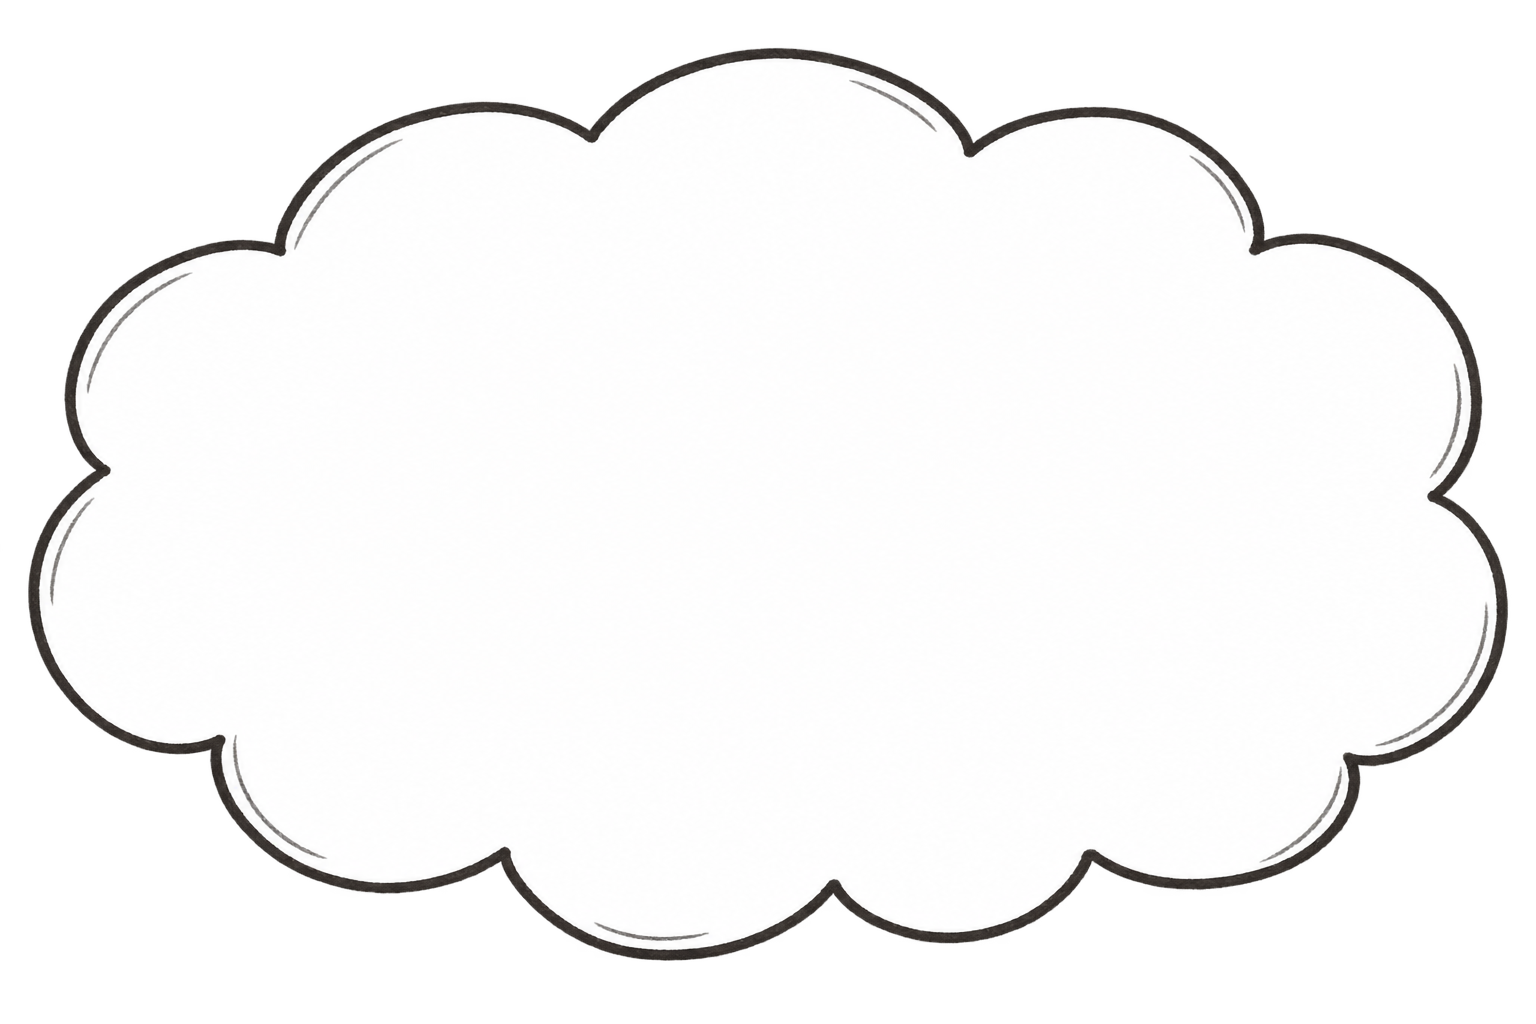
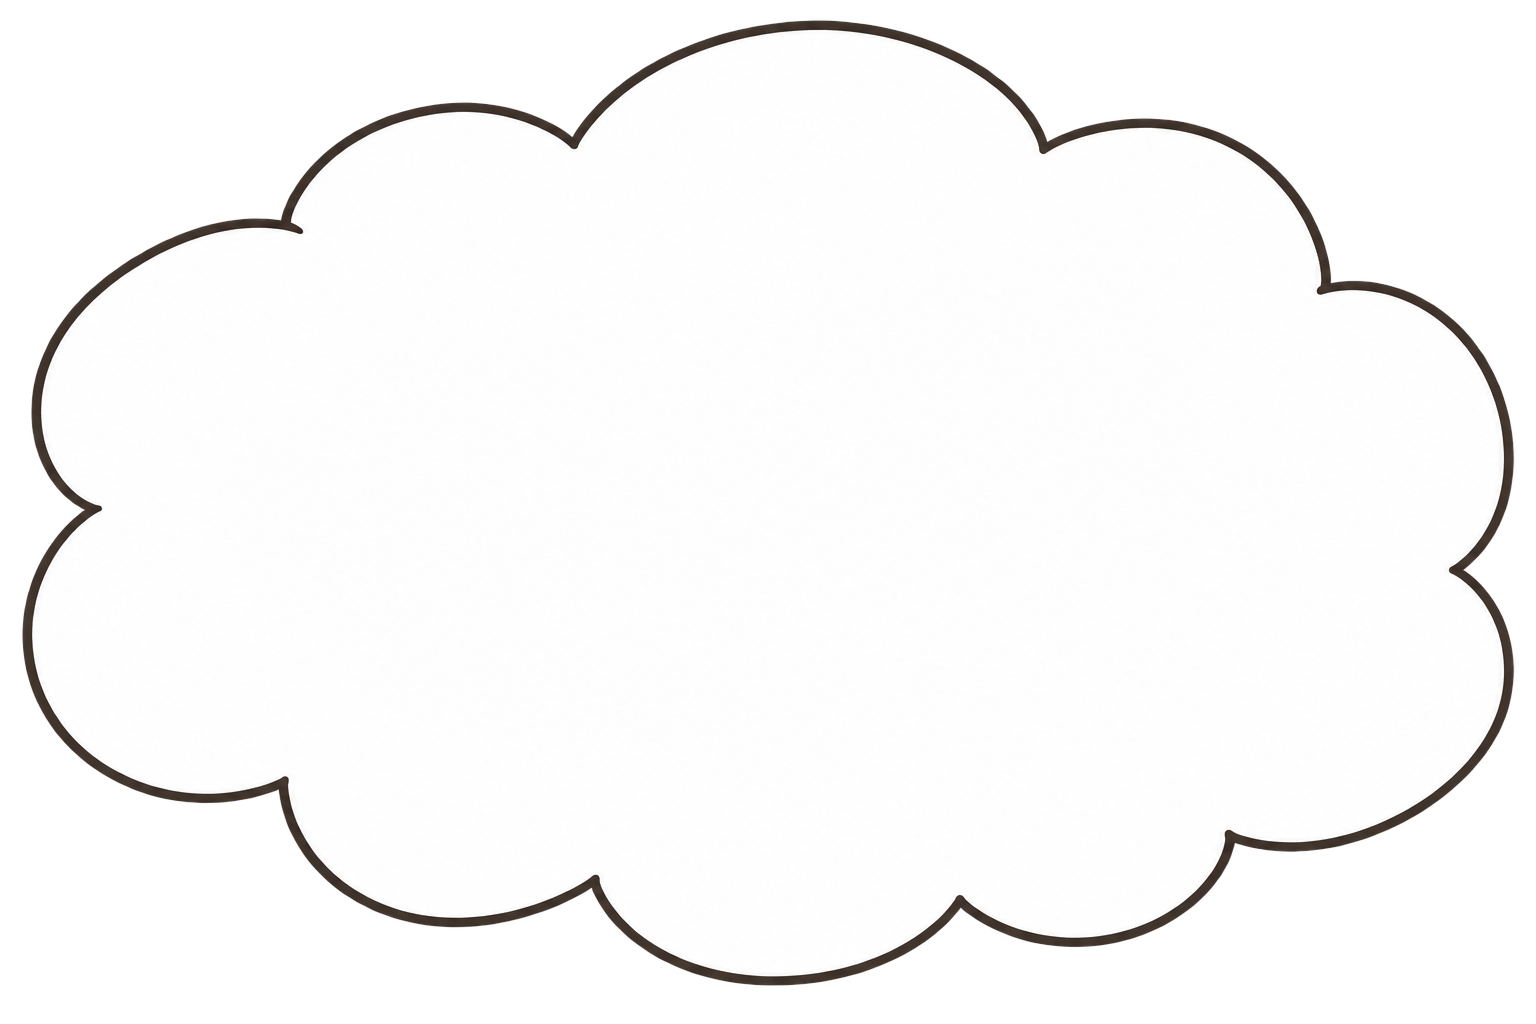
Polish loading clouds and fill along bulb axis

diff --git a/docs/system-design.html b/docs/system-design.html
@@ -53,8 +53,9 @@
 </head>
 <body>
 <h1>SigrikaGo 系统设计</h1>
+<p>思考立绘加载样板第三轮将灯泡填充改为沿自身轴线从玻璃内腔底部向头部上升，填充起止位置由透明内腔遮罩自动提取，旋转后仍保持这一方向。头部漫画发光标记增宽约 52% 并贴近灯泡；大云朵重绘为宽大错落的柔软轮廓，移除重复细碎鼓包和双重描边。大云朵随机左右偏移 8–14px、上下最大 9px，小云朵左右 2–4px、上下最大 2.5px，周期缩短至 4.2–6 秒；完成后暂停当前位置，保持 2 秒静止。桌面、390×844 与 360×640 手机布局验证完整浮动包络内小云朵均不覆盖角色实像。</p>
 <p>思考立绘加载样板第二轮调整了构图：灯泡宽度缩为原来的 2/3，并增加顺时针 30 度；漫画发光标记仅保留灯泡头部上方一组，相对初版转 180 度。大云朵增宽 1/3 并略向右移，三枚小云朵沿角色左侧空白绕行，不覆盖角色实像；等待期间按独立随机路径缓慢浮动，满载暂停在当前偏移，减少动态效果时停止浮动。手机端独立预览入口为 <code>docs/design-samples/loading-page-mobile.html</code>，桌面中使用真实 390×844 嵌入视口，手机上铺满可用屏幕；桌面和手机截图随样板更新，运行时边界不变。</p>
-<p>加载页的新思考立绘样板入口为 <code>docs/design-samples/loading-page.html</code>：角色居中使用已校验的透明眨眼 WebP，左上方大云朵预留死活题图片位置，三枚分开的小云朵连接角色；右侧手绘灯泡以真实透明内腔遮罩承载黄色渐变，从左下向右上填充，满载显示块状发光标记并切换恍然大悟静态表情。完成画面及 Tip 停止变化，2 秒后发出 <code>loading:complete</code> 事件，样板停留在完成状态直至重播。仅保留现有 <code>preloadTips</code> 的文字格式与 10 秒轮换，放于桌下；默认文案取自 <code>DEFAULT_SITE_SETTINGS</code>，正式接入时应读取后台实时配置。样板包含进度与本地题图预览控制，适配桌面、手机竖屏及紧凑横屏，尊重减少动态效果设置；现有启动、对局、教学和黑化状态的运行时加载逻辑暂不替换。素材与运行说明见同目录 <code>loading-page/README.md</code>。</p>
+<p>加载页的新思考立绘样板入口为 <code>docs/design-samples/loading-page.html</code>：角色居中使用已校验的透明眨眼 WebP，左上方大云朵预留死活题图片位置，三枚分开的小云朵连接角色；右侧手绘灯泡以真实透明内腔遮罩承载黄色渐变，沿灯泡自身方向从底部向头部填充，满载显示块状发光标记并切换恍然大悟静态表情。完成画面及 Tip 停止变化，2 秒后发出 <code>loading:complete</code> 事件，样板停留在完成状态直至重播。仅保留现有 <code>preloadTips</code> 的文字格式与 10 秒轮换，放于桌下；默认文案取自 <code>DEFAULT_SITE_SETTINGS</code>，正式接入时应读取后台实时配置。样板包含进度与本地题图预览控制，适配桌面、手机竖屏及紧凑横屏，尊重减少动态效果设置；现有启动、对局、教学和黑化状态的运行时加载逻辑暂不替换。素材与运行说明见同目录 <code>loading-page/README.md</code>。</p>
 <p>教学与首页引导的固定头像框、独立正文纸片沿用原对话框的角色主题色：浅色渐变、角色色描边与轻外光，姓名用主题色混合深墨色，正文保持深色。首页优先读取角色 <code>palette</code>，兼容 <code>color</code>，并把配色传入独立头像层；头像裁切、框尺寸、动态打字和正文增高保持原布局。</p>
 <p>本地开发的 API 代理在后端启动或重启导致连接拒绝、连接重置时，返回带 <code>dev_backend_unavailable</code> 的 JSON 503，避免空响应被误报为 JSON 格式错误。公告列表、详情与未读摘要的 GET 请求仅对该明确错误码自动重试三次，依次等待 250、500、1000 毫秒；持续失败显示服务暂不可用并保留手动重试，已读标记等 POST 不自动重放，其他服务错误或畸形 JSON 仍直接报告。开发环境遇到公告响应格式异常时仅记录请求路径、状态码和 Content-Type，供追踪具体失败接口，不记录令牌或响应正文。</p>
 <p>吃子挑战赛的结算音频以服务端成绩为准：终局恰好 100 手、结束原因为挑战完成且 <code>practice.result</code> 已产生时，为参赛玩家播放角色胜利语音和胜利系统音；提子数、排名和普通胜负字段不影响庆祝。未完成、无效对局、结算尚未落库或观战均不播放，音量设置及结算窗口内的单次播放保护沿用原机制。</p>

diff --git a/docs/design-samples/loading-page/loading-page.js b/docs/design-samples/loading-page/loading-page.js
@@ -19,13 +19,15 @@
   const cloudElements = [...document.querySelectorAll('.thought-cloud, .thought-link')];
 
   function floatCloud(element,index) {
-    const range = index===0 ? 5 : 2;
-    const point = () => `${(Math.random()-.5)*range*2}px ${(Math.random()-.5)*range*1.4}px`;
+    const large = index===0;
+    const point = (direction) => `${direction*(large ? 8+Math.random()*6 : 2+Math.random()*2)}px ${(Math.random()-.5)*(large ? 18 : 5)}px`;
+    const previous = cloudAnimations.get(element);
     const motion = element.animate([
-      {translate:'0px 0px'}, {translate:point()},
-      {translate:point()}, {translate:'0px 0px'}
-    ],{duration:6000+Math.random()*3000,easing:'ease-in-out',fill:'both'});
+      {translate:'0px 0px'}, {translate:point(1)},
+      {translate:point(-1)}, {translate:point(1)}, {translate:'0px 0px'}
+    ],{duration:4200+Math.random()*1800,easing:'ease-in-out',fill:'both'});
     cloudAnimations.set(element,motion);
+    if (previous) previous.cancel();
     motion.onfinish = () => {
       if (progress<100) floatCloud(element,index);
     };
@@ -52,10 +54,10 @@
   function setProgress(value) {
     const number = Number(value);
     const next = Number.isFinite(number) ? Math.max(0,Math.min(100,number)) : 0;
-    const threshold = 100 - 2*next;
-    fill.setAttribute('points',threshold>=0
-      ? `0,${threshold} ${100-threshold},100 0,100`
-      : `0,0 ${-threshold},0 100,${100+threshold} 100,100 0,100`);
+    // Rise from the glass neck to its crown in the rotated bulb's own coordinates.
+    const chamber = window.SigrikaBulbChamber;
+    const threshold = chamber.bottom-(chamber.bottom-chamber.top)*next/100;
+    fill.setAttribute('points',`0,${threshold} 100,${threshold} 100,100 0,100`);
     bulb.setAttribute('aria-valuenow',String(Math.round(next)));
     output.value = `${Math.round(next)}%`;
     slider.value = String(Math.round(next));
@@ -86,7 +88,7 @@
     const started=performance.now();
     function step(now) {
       const elapsed=(now-started)/12000;
-      // Linear data progress keeps the diagonal fill direction obvious.
+      // Linear data progress makes the bulb-axis rise easy to inspect.
       setProgress(Math.min(100,elapsed*100));
       if (progress<100) animation=window.requestAnimationFrame(step);
     }

diff --git a/docs/design-samples/loading-page/loading-page.css b/docs/design-samples/loading-page/loading-page.css
@@ -19,8 +19,8 @@ button,input,summary{font:inherit}
 .bulb-outline{position:absolute;inset:0;width:100%;height:100%;object-fit:contain;pointer-events:none;z-index:2}
 .bulb-fill-mask{position:absolute;inset:0;mask:url('./assets/bulb-interior.png') center/100% 100% no-repeat;-webkit-mask:url('./assets/bulb-interior.png') center/100% 100% no-repeat}
 .bulb-fill{position:absolute;inset:0;width:100%;height:100%}
-.bulb-rays{position:absolute;width:25%;height:auto;opacity:0;visibility:hidden;pointer-events:none;z-index:3}
-.bulb-rays-top{left:36%;top:-23%;transform:rotate(275deg)}
+.bulb-rays{position:absolute;width:38%;height:auto;opacity:0;visibility:hidden;pointer-events:none;z-index:3}
+.bulb-rays-top{left:30%;top:-17%;transform:rotate(275deg)}
 .is-complete .bulb-rays{opacity:1;visibility:visible}
 .loading-tip{margin:18px 0 0;width:min(760px,95%);font-size:clamp(16px,1.35vw,20px);line-height:1.75;text-align:center;overflow-wrap:anywhere;min-height:2em;color:#5a4740}
 .preview-tools{position:fixed;z-index:20;bottom:16px;left:18px;max-width:calc(100vw - 36px);color:#6a554d;font-family:"Microsoft YaHei",sans-serif;font-size:13px}

diff --git a/docs/design-samples/loading-page.html b/docs/design-samples/loading-page.html
@@ -46,6 +46,7 @@
     </div>
   </details>
   <script src="./loading-page/tips.js"></script>
+  <script src="./loading-page/bulb-geometry.js"></script>
   <script src="./loading-page/loading-page.js"></script>
 </body>
 </html>

diff --git a/docs/design-samples/loading-page/bulb-geometry.js b/docs/design-samples/loading-page/bulb-geometry.js
@@ -1,0 +1,1 @@
+window.SigrikaBulbChamber = {"top": 8.425414364640885, "bottom": 75.0};

diff --git a/docs/design-samples/loading-page/prepare-assets.py b/docs/design-samples/loading-page/prepare-assets.py
@@ -18,6 +18,10 @@ assert not chamber[-1,bulb.width//2]
 mask = np.full((bulb.height,bulb.width,4),255,dtype='uint8')
 mask[:,:,3] = np.where(chamber,255,0).astype('uint8')
 Image.fromarray(mask).save(here/'assets/bulb-interior.png')
+rows = np.nonzero(chamber)[0]
+geometry = {'top': int(rows.min())/bulb.height*100,
+            'bottom': (int(rows.max())+1)/bulb.height*100}
+(here/'bulb-geometry.js').write_text('window.SigrikaBulbChamber = '+json.dumps(geometry)+';\n',encoding='utf-8')
 source = (project/'src/shared/siteSettings.js').read_text(encoding='utf-8')
 match = re.search(r'preloadTips:\s*("(?:[^"\\]|\\.)*")',source)
 tips = json.loads(match.group(1)).splitlines()

diff --git a/docs/design-samples/loading-page/README.md b/docs/design-samples/loading-page/README.md
@@ -4,11 +4,11 @@ Open `docs/design-samples/loading-page.html` through a static server rooted at t
 
 The dedicated phone preview is `docs/design-samples/loading-page-mobile.html`, locally `http://127.0.0.1:5179/docs/design-samples/loading-page-mobile.html`. On desktop it embeds the same sample at a real 390×844 viewport; on a phone it fills the available screen. Updated desktop and phone captures are `preview-desktop.png` and `preview-mobile.png` in this directory.
 
-The refined cloud is one third wider and slightly farther right; its connectors curve through empty space to the character's left, with no opaque sprite overlap. The bulb is two thirds of its previous width and adds 30 degrees clockwise rotation: 41 degrees on desktop, 40 on phones. Only one comic glow cluster remains above its head, flipped 180 degrees from its previous orientation. Large and small clouds gently drift along independently randomized 6–9 second paths while waiting; completion pauses their current positions during the 2-second still hold. Reduced motion disables cloud movement as well as blinking.
+The refined cloud is one third wider and slightly farther right, with broad irregular soft lobes and a clean single contour; its connectors curve through empty space to the character's left, with no opaque sprite overlap even at the motion limits. The bulb is two thirds of its previous width and adds 30 degrees clockwise rotation: 41 degrees on desktop, 40 on phones. One comic glow cluster sits close above its head, flipped 180 degrees from its initial orientation and enlarged from 25% to 38% of bulb width. Clouds drift along independently randomized 4.2–6 second paths: main cloud x ±8–14px / y ±9px, connectors x ±2–4px / y ±2.5px. Completion pauses their current positions during the 2-second still hold. Reduced motion disables cloud movement as well as blinking.
 
 The standalone sample follows the requested new loading composition: blinking character centered above the original table, a large thought cloud above and to the left, three separate smaller clouds, a hand-drawn lightbulb beside the head and only the existing tip text below the table. The cloud is intentionally empty until a life-and-death problem image is provided. Preview controls allow a local image to be shown in the slot; that file is never uploaded.
 
-The bulb glass chamber starts transparent. A yellow gradient is clipped by an alpha mask derived from the generated ink contour; a diagonal half-plane reveals the fill from bottom left to top right. At 100%, rays appear and the character switches to the approved still expression. The scene and tip remain still. After exactly 2000 ms, the composition dispatches a bubbling `loading:complete` event; the sample remains on its finished state until replay. Production navigation can consume that event when the design is integrated.
+The bulb glass chamber starts transparent. A yellow gradient is clipped by an alpha mask derived from the generated ink contour. Its horizontal boundary rises in bulb-local coordinates from the glass bottom to the crown, following the bulb's rotation. `prepare-assets.py` writes the mask's normalized vertical bounds to `bulb-geometry.js`; progress maps only to the chamber, excluding the empty screw base. At 100%, rays appear and the character switches to the approved still expression. The scene and tip remain still. After exactly 2000 ms, the composition dispatches a bubbling `loading:complete` event; the sample remains on its finished state until replay. Production navigation can consume that event when the design is integrated.
 
 ## Preview controls
 
@@ -24,7 +24,7 @@ The character sprite is the user's previously approved loading-blink WebP and co
 
 Final prompt set:
 
-1. Cloud: one large standalone hand-drawn thought-cloud bubble, irregular scalloped oval with about ten puffy lobes; slightly wobbly warm charcoal ink and occasional pencil echo; white interior with a large blank center for a future Go puzzle; landscape 3:2; transparent background; no text, stones, characters, tail or extra clouds.
+1. Cloud (replacement): one landscape 3:2 thought bubble, generous blank pure-white interior for a Go puzzle; broad fluffy rounded lobes of naturally varied sizes, soft flowing asymmetry instead of repetitive beads; thin warm-charcoal hand-drawn contour, restrained line variation, no double outlines, grain, internal lines or shadows; transparent exterior; no text, tail, extra clouds, icons, character, stars or puzzle. Generated replacement is saved at `assets/cloud.png` (1536×1024).
 2. Bulb: one upright classic lightbulb, circular pear-shaped chamber and small screw base, warm charcoal hand-drawn contour; glass and base interior genuinely transparent; no filament, rays, lettering, shadows or colored fill; portrait 3:4 with margins. The generated asset is 1086×1448; `bulb-interior.png` is a derived RGBA alpha mask for the chamber only.
 3. Rays: edit the supplied reference to create three separated irregular chunky trapezoid yellow emission marks; soft buttery yellow fill, thin wobbly charcoal pencil contour; remove the white background; retain transparent gaps; no stars, lightning bolt, bulb or text. The final composition uses one cluster above the completed bulb, rotated 180 degrees relative to the initial sample.
 
@@ -32,4 +32,4 @@ This is a visual prototype, following the repository's existing design-sample co
 
 ## Validation
 
-Local browser QA covers fixed stages, diagonal fill, transparent chamber, completed still expression, rays, the 2-second completion boundary, replay, puzzle slot, reduced motion, desktop, mobile portrait and compact landscape. Screenshots and the local report are under `.tmp/loading-page-qa/`.
+Local browser QA covers 0/10/50/90/100% bulb-axis fill, transparent chamber, completed still expression, rays, the 2-second completion boundary, replay, puzzle slot, reduced motion, desktop, mobile portrait and compact landscape. Connector alpha overlap is checked throughout the full drift envelope. Screenshots and local reports are under `.tmp/loading-page-qa/`.

diff --git a/docs/system-design.md b/docs/system-design.md
@@ -1,8 +1,10 @@
 # SigrikaGo 系统设计
 
+思考立绘加载样板第三轮将灯泡填充改为沿自身轴线从玻璃内腔底部向头部上升，填充起止位置由透明内腔遮罩自动提取，旋转后仍保持这一方向。头部漫画发光标记增宽约 52% 并贴近灯泡；大云朵重绘为宽大错落的柔软轮廓，移除重复细碎鼓包和双重描边。大云朵随机左右偏移 8–14px、上下最大 9px，小云朵左右 2–4px、上下最大 2.5px，周期缩短至 4.2–6 秒；完成后暂停当前位置，保持 2 秒静止。桌面、390×844 与 360×640 手机布局验证完整浮动包络内小云朵均不覆盖角色实像。
+
 思考立绘加载样板第二轮调整了构图：灯泡宽度缩为原来的 2/3，并增加顺时针 30 度；漫画发光标记仅保留灯泡头部上方一组，相对初版转 180 度。大云朵增宽 1/3 并略向右移，三枚小云朵沿角色左侧空白绕行，不覆盖角色实像；等待期间按独立随机路径缓慢浮动，满载暂停在当前偏移，减少动态效果时停止浮动。手机端独立预览入口为 `docs/design-samples/loading-page-mobile.html`，桌面中使用真实 390×844 嵌入视口，手机上铺满可用屏幕；桌面和手机截图随样板更新，运行时边界不变。
 
-加载页的新思考立绘样板入口为 `docs/design-samples/loading-page.html`：角色居中使用已校验的透明眨眼 WebP，左上方大云朵预留死活题图片位置，三枚分开的小云朵连接角色；右侧手绘灯泡以真实透明内腔遮罩承载黄色渐变，从左下向右上填充，满载显示块状发光标记并切换恍然大悟静态表情。完成画面及 Tip 停止变化，2 秒后发出 `loading:complete` 事件，样板停留在完成状态直至重播。仅保留现有 `preloadTips` 的文字格式与 10 秒轮换，放于桌下；默认文案取自 `DEFAULT_SITE_SETTINGS`，正式接入时应读取后台实时配置。样板包含进度与本地题图预览控制，适配桌面、手机竖屏及紧凑横屏，尊重减少动态效果设置；现有启动、对局、教学和黑化状态的运行时加载逻辑暂不替换。素材与运行说明见同目录 `loading-page/README.md`。
+加载页的新思考立绘样板入口为 `docs/design-samples/loading-page.html`：角色居中使用已校验的透明眨眼 WebP，左上方大云朵预留死活题图片位置，三枚分开的小云朵连接角色；右侧手绘灯泡以真实透明内腔遮罩承载黄色渐变，沿灯泡自身方向从底部向头部填充，满载显示块状发光标记并切换恍然大悟静态表情。完成画面及 Tip 停止变化，2 秒后发出 `loading:complete` 事件，样板停留在完成状态直至重播。仅保留现有 `preloadTips` 的文字格式与 10 秒轮换，放于桌下；默认文案取自 `DEFAULT_SITE_SETTINGS`，正式接入时应读取后台实时配置。样板包含进度与本地题图预览控制，适配桌面、手机竖屏及紧凑横屏，尊重减少动态效果设置；现有启动、对局、教学和黑化状态的运行时加载逻辑暂不替换。素材与运行说明见同目录 `loading-page/README.md`。
 
 教学与首页引导的固定头像框、独立正文纸片沿用原对话框的角色主题色：浅色渐变、角色色描边与轻外光，姓名用主题色混合深墨色，正文保持深色。首页优先读取角色 `palette`，兼容 `color`，并把配色传入独立头像层；头像裁切、框尺寸、动态打字和正文增高保持原布局。
 

diff --git a/.trellis/spec/frontend/loading-art-prototype.md b/.trellis/spec/frontend/loading-art-prototype.md
@@ -5,11 +5,11 @@ The independent loading design sample lives at `docs/design-samples/loading-page
 
 ## Visual and timing contracts
 - Zero percent: the bulb chamber is genuinely transparent and rays are hidden.
-- Intermediate progress: a diagonal half-plane reveals a yellow gradient from bottom left toward top right, clipped by the chamber shape.
+- Intermediate progress: a horizontal boundary in bulb-local coordinates rises from the glass bottom to its crown, clipped by the chamber shape. Rotate the whole bulb, including its fill; do not use a diagonal local boundary. Derive normalized top/bottom positions from the RGBA chamber mask into `bulb-geometry.js`, so low progress is already visible inside the neck.
 - One hundred percent: show the approved still character, reveal the rays, stop tip rotation and keep the entire composition still. Dispatch `loading:complete` after 2000 ms. Resetting progress before the hold expires cancels that event.
 - Reduced motion uses the static waiting sprite. The Go problem slot stays empty until a real image is supplied; local sample selection uses an object URL rather than an upload.
-- Only one comic glow-mark cluster appears above the bulb head. The corrected cluster is flipped 180 degrees from the initial sample; no side clusters remain.
-- Cloud movement uses independently randomized small translations while progress is below 100. Completion pauses the current animation time rather than returning to an origin, avoiding a visible snap; resetting progress resumes movement. Reduced motion disables it. Route connectors outside the sprite silhouette and budget their maximum drift, not only their static positions.
+- Only one comic glow-mark cluster appears above the bulb head. The corrected cluster is flipped 180 degrees from the initial sample, occupies 38% of bulb width and sits close to the crown; no side clusters remain.
+- Cloud movement uses independent randomized 4.2–6 second translations while progress is below 100: large cloud x ±8–14px / y ±9px, connectors x ±2–4px / y ±2.5px. Alternate left/right excursions to ensure visible amplitude. Cancel superseded animations each cycle. Completion pauses the current animation time rather than returning to an origin, avoiding a visible snap; resetting progress resumes movement. Reduced motion disables it. Route connectors outside the sprite silhouette and verify the entire maximum drift envelope, not only static positions.
 - `loading-page-mobile.html` embeds the same composition at a real 390×844 iframe viewport on desktop; a phone displays it edge to edge. Deliver both desktop and phone preview links/captures when refining this surface.
 
 ## Mask and geometry validation

diff --git a/.trellis/tasks/10-03-loading-art-polish/prd.md b/.trellis/tasks/10-03-loading-art-polish/prd.md
@@ -1,0 +1,5 @@
+# Loading art polish
+
+Refine the existing independent desktop and mobile loading samples according to the user's feedback. Fill the rotated bulb along its own axis from glass bottom to head, enlarge the single completion glow cluster and place it closer to the head. Replace the repetitive cloud contour with a softer hand-drawn asset and noticeably increase randomized cloud motion without covering the character. Preserve transparent zero progress, reduced motion and the two-second completed still hold.
+
+Validate desktop and phone layouts, progress stages, cloud/sprite separation throughout movement, completion timing and reduced motion. Update sample documentation and system design synchronously. Production preload remains outside this sample's scope.
